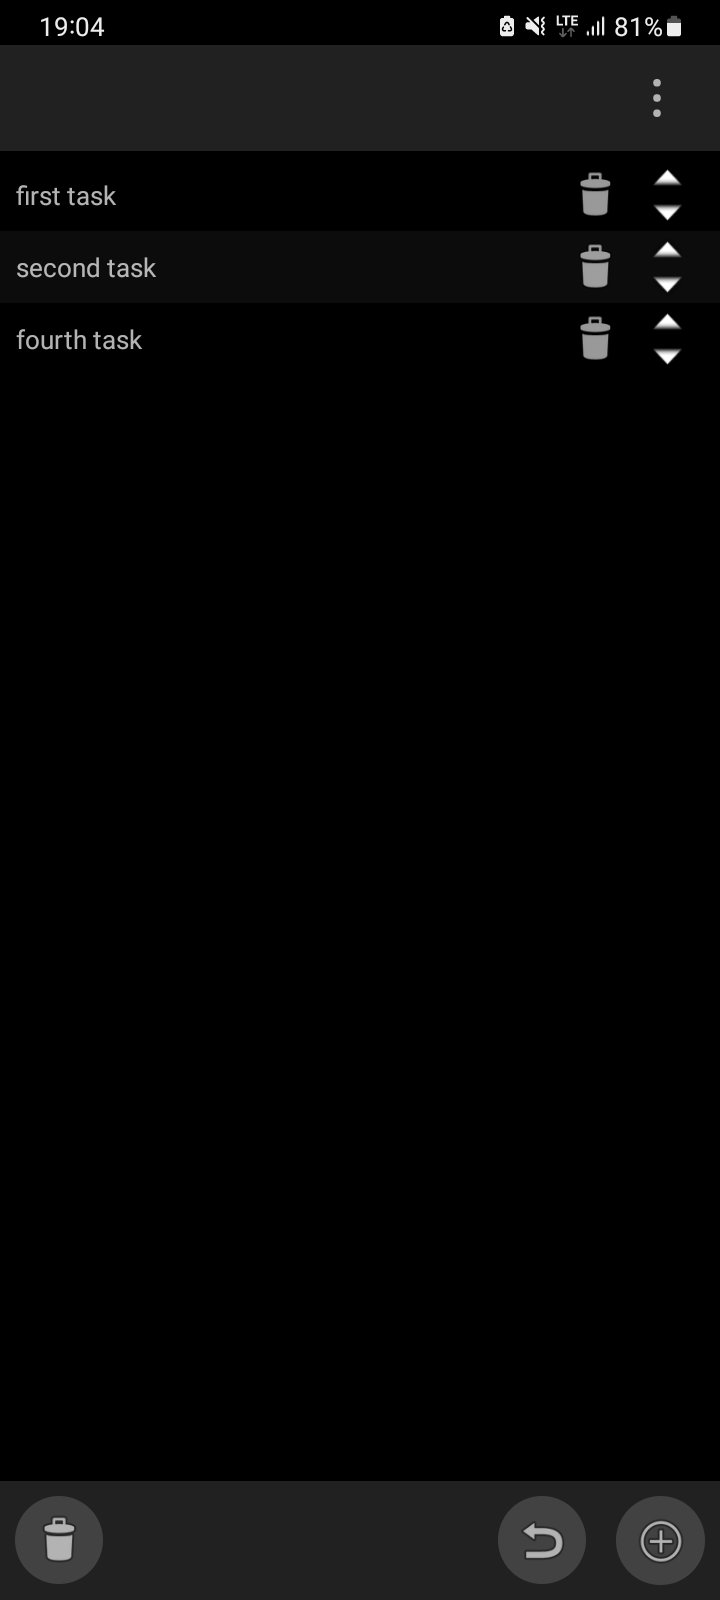
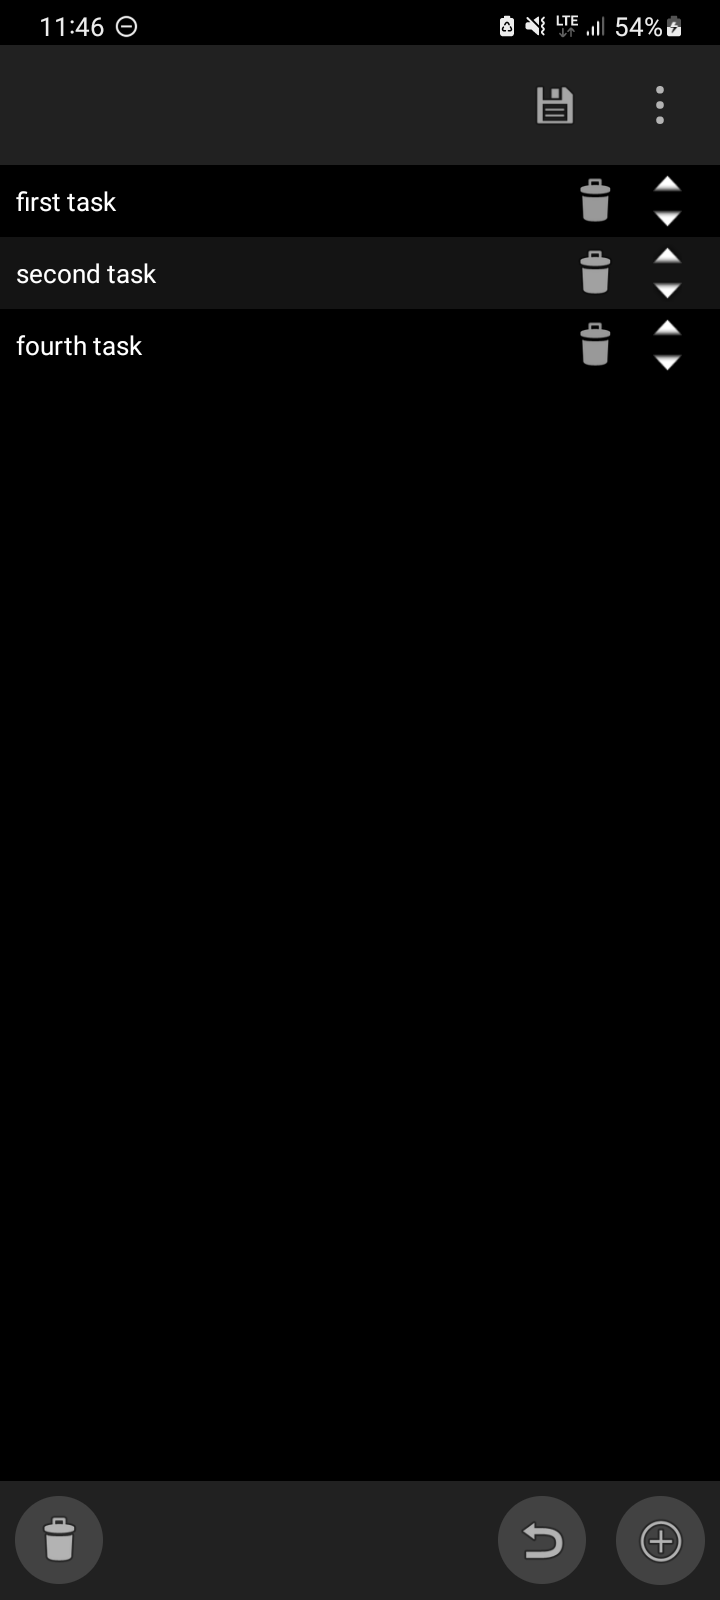
add export as .md file, fix layout issues, fix delete all issue & increase task background contrast

Changed region(s): [[0.0, 0.0312, 1.0, 0.25], [0.0611, 0.0, 0.1833, 0.0312], [0.8556, 0.0, 0.8861, 0.0312]]

diff --git a/app/src/main/java/kryptonbutterfly/checklist/MainActivity.kt b/app/src/main/java/kryptonbutterfly/checklist/MainActivity.kt
@@ -1,9 +1,14 @@
 package kryptonbutterfly.checklist
 
+import android.Manifest
 import android.app.Activity
 import android.content.Intent
+import android.content.pm.PackageManager
 import android.graphics.drawable.Drawable
+import android.net.Uri
 import android.os.Bundle
+import android.text.Html
+import android.text.SpannableString
 import android.util.Log
 import android.view.Gravity
 import android.view.View
@@ -12,6 +17,7 @@ import android.view.ViewGroup.LayoutParams.WRAP_CONTENT
 import android.widget.*
 import androidx.activity.result.contract.ActivityResultContracts
 import androidx.appcompat.app.AppCompatActivity
+import androidx.core.app.ActivityCompat
 import androidx.core.content.ContextCompat
 import androidx.core.view.forEach
 import androidx.core.view.get
@@ -19,6 +25,8 @@ import androidx.core.view.size
 import kryptonbutterfly.checklist.Constants.ACTION
 import kryptonbutterfly.checklist.Constants.CREATE_TASK
 import kryptonbutterfly.checklist.Constants.DESCRIPTION
+import kryptonbutterfly.checklist.Constants.HTML_POSTFIX
+import kryptonbutterfly.checklist.Constants.HTML_PREFIX
 import kryptonbutterfly.checklist.Constants.INDEX
 import kryptonbutterfly.checklist.Constants.MOVE_TASK
 import kryptonbutterfly.checklist.Constants.SETTINGS
@@ -27,7 +35,10 @@ import kryptonbutterfly.checklist.actions.*
 import kryptonbutterfly.checklist.misc.Stack
 import kryptonbutterfly.checklist.persistence.*
 
+const val REQUEST_PERMISSION_CODE = 0
+
 class MainActivity : AppCompatActivity(), DeleteAllDialog.DialogListener {
+
     private var light: Int = 0
     private var dark: Int = 0
     private val roundedCorners = Drawable.createFromPath("@drawable/rounded_corner")
@@ -42,6 +53,12 @@ class MainActivity : AppCompatActivity(), DeleteAllDialog.DialogListener {
                     event(action as Action<*>)
                 }
             }
+        }
+
+    private val getExport =
+        registerForActivityResult(ActivityResultContracts.StartActivityForResult()) { result ->
+            if (result.resultCode == Activity.RESULT_OK)
+                result.data?.data?.let(this::export)
         }
 
     private val settingsResult =
@@ -90,6 +107,14 @@ class MainActivity : AppCompatActivity(), DeleteAllDialog.DialogListener {
         saveData(this, data)
     }
 
+    fun onExportClick(@Suppress("UNUSED_PARAMETER") view: View) {
+        if (ContextCompat.checkSelfPermission(this, Manifest.permission.WRITE_EXTERNAL_STORAGE) == PackageManager.PERMISSION_DENIED)
+            ActivityCompat.requestPermissions(this, arrayOf(Manifest.permission.WRITE_EXTERNAL_STORAGE), REQUEST_PERMISSION_CODE)
+        else
+            openFilePicker()
+    }
+
+
     fun onSettingsClick(@Suppress("UNUSED_PARAMETER") view: View) {
         val intent = Intent(this, SettingsActivity::class.java)
         intent.putExtra(SETTINGS, this.settings)
@@ -112,11 +137,49 @@ class MainActivity : AppCompatActivity(), DeleteAllDialog.DialogListener {
     override fun onDialogPositiveClick() {
         val taskList = findViewById<TableLayout>(R.id.taskList)
         taskList.removeAllViews()
-        history.clear()
+        event(DeleteAll(taskList.size))
     }
 
     fun onRestoreClick(@Suppress("UNUSED_PARAMETER") view: View) {
         history.remove()?.let(this::redo)
+    }
+
+    override fun onRequestPermissionsResult(
+        requestCode: Int,
+        permissions: Array<out String>,
+        grantResults: IntArray
+    ) {
+        super.onRequestPermissionsResult(requestCode, permissions, grantResults)
+        when (requestCode) {
+            REQUEST_PERMISSION_CODE -> {
+                if (grantResults.isNotEmpty() && grantResults[0] == PackageManager.PERMISSION_GRANTED)
+                    openFilePicker()
+            }
+        }
+    }
+
+    private fun openFilePicker(){
+        val intent = Intent(Intent.ACTION_CREATE_DOCUMENT)
+        intent.addCategory(Intent.CATEGORY_OPENABLE)
+        intent.type = "**/*.md"
+        intent.putExtra(Intent.EXTRA_TITLE, "tasks.md")
+        getExport.launch(intent)
+    }
+
+    private fun export(uri: Uri) {
+        val taskList = findViewById<TableLayout>(R.id.taskList)
+        val sb = StringBuilder()
+        taskList.forEach {
+            val text = SpannableString(((it as TableRow)[TEXT_COLUMN] as TextView).text.toString())
+            val html = Html.toHtml(text, Html.FROM_HTML_MODE_LEGACY)
+            val markdown = html.substring(HTML_PREFIX.length, html.length - HTML_POSTFIX.length)
+            sb.append(" * ").append(markdown).append("\n")
+        }
+        val result = sb.toString()
+        contentResolver.openOutputStream(uri)?.bufferedWriter()?.use { br ->
+            Log.i("EXPORTING", "File: ${uri}\tdata:\n${result}")
+            br.write(result)
+        }
     }
 
     private fun renameTask(action: RenameTask) {
@@ -157,17 +220,19 @@ class MainActivity : AppCompatActivity(), DeleteAllDialog.DialogListener {
 
         val textView = TextView(applicationContext)
         row.addView(textView)
-        textView.layoutParams = TableRow.LayoutParams(0, MATCH_PARENT, 1f)
-        textView.gravity = Gravity.CENTER_VERTICAL
+        textView.layoutParams = taskDescTmpl.layoutParams
         textView.text = action.description
         textView.setTextColor(taskDescTmpl.textColors)
+        textView.setPadding(0,8,0,8)
         textView.setOnClickListener {
             editTask(taskList.indexOfChild(row), textView.text.toString())
         }
 
         val deleteButton = ImageButton(applicationContext)
         row.addView(deleteButton)
-        deleteButton.layoutParams = TableRow.LayoutParams(WRAP_CONTENT, WRAP_CONTENT)
+        val deleteLayout = TableRow.LayoutParams(WRAP_CONTENT, WRAP_CONTENT)
+        deleteLayout.gravity = Gravity.CENTER_VERTICAL
+        deleteButton.layoutParams = deleteLayout
         deleteButton.setPadding(6, 6, 6, 6)
         deleteButton.setImageResource(android.R.drawable.ic_menu_delete)
         deleteButton.background = roundedCorners

diff --git a/app/src/main/java/kryptonbutterfly/checklist/Constants.kt b/app/src/main/java/kryptonbutterfly/checklist/Constants.kt
@@ -24,6 +24,9 @@ object Constants
     const val JSON_TYPE = ":type"
     const val JSON_DATA = "data"
 
+    const val HTML_PREFIX = "<p dir=\"ltr\">"
+    const val HTML_POSTFIX = "</p>\n"
+
     val GSON: Gson = GsonBuilder()
         .setPrettyPrinting()
         .registerTypeAdapter(Action::class.java, ActionAdapter)

diff --git a/README.md b/README.md
@@ -11,4 +11,4 @@ A primitive checklist app.
 </div>
 
 ## Download
-[CheckList.apk](https://github.com/kryptonbutterfly/CheckList/releases/download/v2.0.2/CheckList.apk)
+[CheckList.apk](https://github.com/kryptonbutterfly/CheckList/releases/download/v2.1.0/CheckList.apk)
